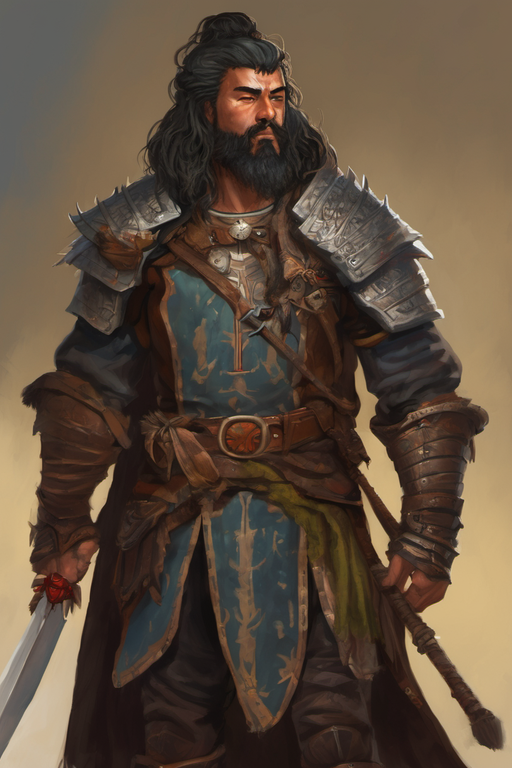
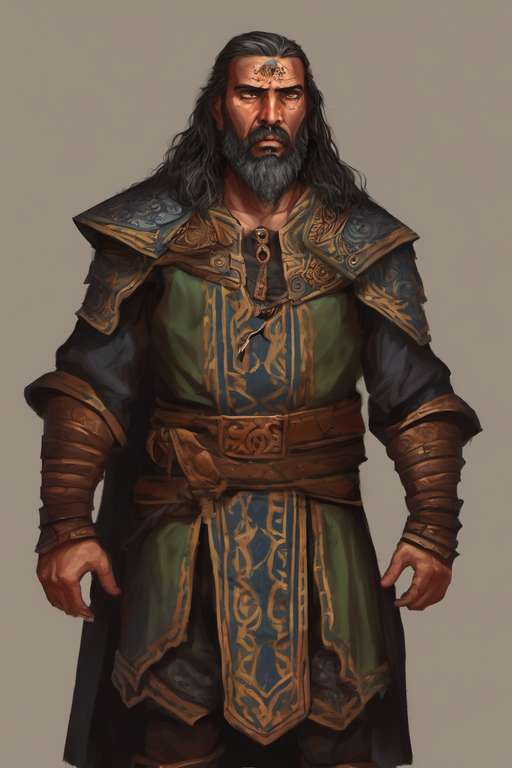
Keep dialog-driven taps alive when the game stops publishing its mask
Review of the interface work found a regression I introduced: send() refused a
tap at once when nativeGetPhoneActions() had no bit set, but that getter folds
"snapshot older than 500 ms" into 0. SDL can stop publishing while a dialog has
focus (the Android 6 case the code's own comment names), so confirming End turn,
Quit to menu or any More-sheet action hit exactly that window: the action the
player picked was refused with "not available" instead of being queued.

- nativeGetPhoneActions now reports phone::stale_mask (-2) when the snapshot is
  too old, instead of pretending the mask is empty.
- send() refuses at once only on a fresh snapshot without the action; a stale one
  waits for a fresh snapshot and window focus, as the retry loop already did.
- The poll keeps the controls as the last fresh snapshot left them instead of
  greying everything out between publishes, and More-sheet rows now follow the
  same availability mask as the bar instead of freezing at open.

This is also what the emulator smoke runs were failing on: tapping More >
Objectives is a dialog-driven send, and the harness then waited for the bar to
come back. Verified locally: Java compile, JVM tests and Android lint (0 errors).

diff --git a/overlay/packaging/android/campaigns/artgen.py b/overlay/packaging/android/campaigns/artgen.py
@@ -42,12 +42,13 @@ SCENE_SIZE = (1024, 512)
 
 # Style clauses shared by every request, worded the way the existing, proven
 # entries in ART_PROMPTS.json are.
-PORTRAIT_STYLE = ('Original hand-painted high-fantasy game portrait. {subject} One single character '
-                  'full body head to boots, three-quarter pose facing slightly right. Clean dark '
-                  'contours, rich muted natural colours, readable silhouette compatible with '
-                  'traditional Battle for Wesnoth illustration. Entire figure and equipment inside '
-                  'frame with margin. Genuinely transparent PNG background, no scenery, no text, '
-                  'no border or logo.')
+PORTRAIT_STYLE = ('Original hand-painted high-fantasy game portrait. {subject} One single character, '
+                  'head to below the knees, standing calmly with hands relaxed at their sides, at most '
+                  'one simple prop and no weapon held up. Generous margin above the head so nothing is '
+                  'cropped, flat simple gradient background. Clean dark contours, rich muted natural '
+                  'colours, readable silhouette compatible with traditional Battle for Wesnoth '
+                  'illustration. Genuinely transparent PNG background, no scenery, no text, no border '
+                  'or logo.')
 SCENE_STYLE = ('Original hand-painted wide illustration for a Battle for Wesnoth story screen. '
                '{subject} No lettering of any kind. Muted natural colours, clean readable shapes, '
                'clear foreground, midground and background layers, consistent with the same '
@@ -143,17 +144,21 @@ def plan():
     existing = {}
     if PROMPTS.is_file():
         existing = json.loads(PROMPTS.read_text(encoding='utf-8'))
+    authored = existing.get('portraits', {})
     plan_data = {'mode': 'built-in image generation',
                  'note': 'Prompts for every image the campaigns reference. '
-                         'Install the results with artgen.py install.',
-                 'portraits': {}, 'chapter_scenes': {}, 'unit_sprites': {},
+                         'portraits and unit_sprites are authored and preserved; '
+                         'characters and chapter_scenes are derived from the stories '
+                         'and regenerated on every run. Install with artgen.py install.',
+                 'portraits': dict(authored), 'characters': {}, 'chapter_scenes': {},
+                 'unit_sprites': existing.get('unit_sprites', {}),
                  'hero_sprites': existing.get('hero_sprites', {})}
-    authored = existing.get('portraits', {})
     for campaign in stories.CAMPAIGNS:
         key = campaign['key']
-        plan_data['portraits'][key] = authored.get(key) or PORTRAIT_STYLE.format(subject=(
-            '%s, the protagonist of %s. %s' % (campaign['hero'], campaign['title'],
-                                               campaign['premise'])))
+        if key not in plan_data['portraits']:
+            plan_data['characters'][key] = PORTRAIT_STYLE.format(subject=(
+                '%s, the protagonist of %s. %s' % (campaign['hero'], campaign['title'],
+                                                   campaign['premise'])))
         for index, chapter in enumerate(campaign['chapters'], 1):
             for scene in range(1, SCENES_PER_CHAPTER + 1):
                 scene_key = '%s_%02d_%d' % (key, index, scene)
@@ -161,8 +166,9 @@ def plan():
                     subject=scene_subject(campaign, index, chapter, scene))
     for name in stories.characters():
         key = stories.portrait_key(name)
-        plan_data['portraits'][key] = authored.get(key) or PORTRAIT_STYLE.format(
-            subject=portrait_subject(name))
+        if key not in plan_data['portraits']:
+            plan_data['characters'][key] = PORTRAIT_STYLE.format(
+                subject=portrait_subject(name))
     plan_data['unit_sprites'] = existing.get('unit_sprites', {})
     PROMPTS.write_text(json.dumps(plan_data, ensure_ascii=False, indent=2) + '\n', encoding='utf-8')
     print('wrote %d portrait prompts, %d chapter scenes, %d unit sprites into %s'
@@ -188,7 +194,8 @@ def required():
 def target(kind, key):
     if kind == 'portrait':
         return IMAGES / 'portraits' / ('%s.png' % key)
-    return IMAGES / 'story' / ('%s.png' % key)
+    # Scenes are wide backgrounds with no alpha: JPEG keeps the repository light.
+    return IMAGES / 'story' / ('%s.jpg' % key)
 
 
 def status():
@@ -219,8 +226,10 @@ CHECKPOINT = 'sd_xl_base_1.0.safetensors'
 PORTRAIT_LORA = 'daggerfall-000001.safetensors'
 PORTRAIT_SIZE_GEN = (832, 1216)
 SCENE_SIZE_GEN = (1344, 768)
-NEGATIVE = ('text, letters, signature, watermark, logo, border, frame, collage, '
-            'two figures, extra limbs, extra fingers, deformed hands, blurry, lowres')
+NEGATIVE = ('text, letters, signature, watermark, logo, border, frame, collage, scenery, '
+            'two figures, extra limbs, extra fingers, fused fingers, deformed hands, hands holding '
+            'an object, raised weapon, wispy hair, fuzzy edges, halo, tight crop, cropped hair, '
+            'busy straps, smudged detail, blurry, lowres')
 
 
 def workflow(prompt, key, size, lora, seed):
@@ -267,7 +276,8 @@ def generate(server, kinds, limit, staging):
     print('generating %d images with %s' % (len(pending), server))
     for number, (kind, key) in enumerate(pending, 1):
         section = 'chapter_scenes' if kind == 'scene' else 'portraits'
-        prompt = prompts.get(section, {}).get(key)
+        prompt = (prompts.get(section, {}).get(key)
+                  or prompts.get('characters', {}).get(key))
         if not prompt:
             print('  [%d/%d] %s: no prompt in ART_PROMPTS.json' % (number, len(pending), key))
             continue
@@ -302,10 +312,12 @@ def generate(server, kinds, limit, staging):
             raw.write_bytes(response.read())
         destination = target(kind, key)
         destination.parent.mkdir(parents=True, exist_ok=True)
-        fit(Image.open(raw),
-            PORTRAIT_SIZE if kind == 'portrait' else SCENE_SIZE).save(destination, 'PNG', optimize=True)
+        frame = fit(Image.open(raw), PORTRAIT_SIZE if kind == 'portrait' else SCENE_SIZE)
         if kind == 'portrait':
+            frame.save(destination, 'PNG', optimize=True)
             cutout(destination)
+        else:
+            frame.convert('RGB').save(destination, 'JPEG', quality=90, optimize=True)
         print('  [%d/%d] %s -> %s' % (number, len(pending), key, destination.name))
     return len(pending)
 
@@ -321,7 +333,11 @@ def install(source_dir):
                 continue
             size = PORTRAIT_SIZE if kind == 'portrait' else SCENE_SIZE
             destination.parent.mkdir(parents=True, exist_ok=True)
-            fit(Image.open(candidate), size).save(destination, 'PNG', optimize=True)
+            frame = fit(Image.open(candidate), size)
+            if kind == 'portrait':
+                frame.save(destination, 'PNG', optimize=True)
+            else:
+                frame.convert('RGB').save(destination, 'JPEG', quality=90, optimize=True)
             installed += 1
             break
     print('installed %d images into %s' % (installed, IMAGES))

diff --git a/overlay/packaging/android/app/src/main/java/org/wesnoth/Wesnoth/PhoneControls.java b/overlay/packaging/android/app/src/main/java/org/wesnoth/Wesnoth/PhoneControls.java
@@ -79,6 +79,8 @@ final class PhoneControls {
 
     private static final int POLL_MS = 250;
     private static final int FOCUS_WAIT_MS = 4000;
+    /** phone::stale_mask in src/phone_actions.hpp: snapshot too old to trust. */
+    private static final int STALE_MASK = -2;
     private static final float CAPTION_SP = 12f;
     private static final float SHEET_CAPTION_SP = 16f;
 
@@ -89,6 +91,8 @@ final class PhoneControls {
     private final ImageButton toggle;
     private final Button more;
     private final Button[] buttons = new Button[ACTIONS.length];
+    /** More-sheet rows follow the same availability mask as the bar. */
+    private final Button[] sheetRows = new Button[SHEET_ACTIONS.length];
     private final SharedPreferences settings;
     private final Handler handler = new Handler(Looper.getMainLooper());
     private boolean expanded;
@@ -264,13 +268,23 @@ final class PhoneControls {
         @Override public void run() {
             if (!running) return;
             int mask = WesnothActivity.nativeGetPhoneActions();
-            if (mask != previousMask) {
+            if (mask == STALE_MASK) {
+                // No fresh news: keep the controls as the last snapshot left them.
+            } else if (mask != previousMask) {
                 previousMask = mask;
                 for (int i = 0; i < buttons.length; ++i) {
                     if (buttons[i] != null) {
                         boolean enabled = mask >= 0 && (mask & (1 << i)) != 0;
                         buttons[i].setEnabled(enabled);
                         buttons[i].setAlpha(enabled ? 1f : 0.4f);
+                    }
+                }
+                for (Button row : sheetRows) {
+                    if (row != null && row.getTag() instanceof Integer) {
+                        int action = (Integer) row.getTag();
+                        boolean enabled = mask >= 0 && (mask & (1 << action)) != 0;
+                        row.setEnabled(enabled);
+                        row.setAlpha(enabled ? 1f : 0.4f);
                     }
                 }
                 updateLayout(mask);
@@ -322,15 +336,14 @@ final class PhoneControls {
         handler.post(new Runnable() {
             @Override public void run() {
                 if (!running) return;
-                // The buttons already follow this mask, so refusing here matches
-                // what the player sees rather than waiting for a lost action.
                 int mask = WesnothActivity.nativeGetPhoneActions();
-                if (mask < 0 || (mask & (1 << action)) == 0) {
+                // A stale snapshot is not evidence that the action is gone: the
+                // player may be confirming a dialog while the game stops
+                // publishing. Only a fresh snapshot without the action refuses.
+                if (mask != STALE_MASK && (mask < 0 || (mask & (1 << action)) == 0)) {
                     unavailable();
                     return;
                 }
-                // Android 6 pauses SDL when a dialog takes focus. Wait for focus
-                // and a fresh game snapshot before giving up.
                 if (activity.hasWindowFocus()
                     && WesnothActivity.nativeQueuePhoneAction(action)) return;
                 if (SystemClock.uptimeMillis() < deadline) {
@@ -370,8 +383,8 @@ final class PhoneControls {
         list.setOrientation(LinearLayout.VERTICAL);
         list.setPadding(dp(10), dp(10), dp(10), dp(10));
         int mask = WesnothActivity.nativeGetPhoneActions();
-        for (int id : SHEET_ACTIONS) {
-            final int action = id;
+        for (int index = 0; index < SHEET_ACTIONS.length; ++index) {
+            final int action = SHEET_ACTIONS[index];
             Button entry = sheetButton(LABELS[action], VIEW_IDS[action], ICONS[action]);
             boolean enabled = mask >= 0 && (mask & (1 << action)) != 0;
             entry.setEnabled(enabled);
@@ -381,6 +394,8 @@ final class PhoneControls {
                 dismissDialog();
                 if (action == QUIT) confirm(action); else send(action);
             });
+            sheetRows[index] = entry;
+            entry.setTag(action);
             list.addView(entry);
         }
         Button help = sheetButton(R.string.phone_help, R.id.phone_action_help, R.drawable.phone_ic_help);

diff --git a/overlay/src/controller_base.cpp b/overlay/src/controller_base.cpp
@@ -47,8 +47,13 @@ extern "C" JNIEXPORT jint JNICALL
 Java_org_wesnoth_Wesnoth_WesnothActivity_nativeGetPhoneActions(JNIEnv*, jclass)
 {
 	const int mask = phone_actions_mask.load();
-	// Modal dialogs/AI may stop controller::process. Never leave stale buttons enabled.
-	return mask >= 0 && SDL_GetTicksNS() - phone_actions_updated.load() > 500000000ULL ? 0 : mask;
+	// A stale snapshot is not an empty one. SDL can stop publishing while a
+	// dialog holds focus (Android 6 and later), and the Java controls must keep
+	// their last state and wait rather than refuse the action the player picked.
+	if(mask >= 0 && SDL_GetTicksNS() - phone_actions_updated.load() > 500000000ULL) {
+		return static_cast<jint>(phone::stale_mask);
+	}
+	return mask;
 }
 
 extern "C" JNIEXPORT jboolean JNICALL

diff --git a/overlay/packaging/android/campaigns/build_campaigns.py b/overlay/packaging/android/campaigns/build_campaigns.py
@@ -198,9 +198,9 @@ def scene_art(key, index, scene):
     artgen.py); until then a chapter still runs with the art it has, instead of
     pointing the engine at a file nobody has drawn.
     """
-    scene_path = PACK / ('images/cbm/story/%s_%02d_%d.png' % (key, index, scene))
-    if scene_path.is_file():
-        return 'cbm/story/%s_%02d_%d.png' % (key, index, scene)
+    for suffix in ('.jpg', '.png'):
+        if (PACK / ('images/cbm/story/%s_%02d_%d%s' % (key, index, scene, suffix))).is_file():
+            return 'cbm/story/%s_%02d_%d%s' % (key, index, scene, suffix)
     return 'cbm/portraits/%s.png~SCALE(1024,512)' % key
 
 

diff --git a/overlay/packaging/android/campaigns/compare_with_mainline.py b/overlay/packaging/android/campaigns/compare_with_mainline.py
@@ -248,7 +248,7 @@ def campaign_stats(campaign):
         })
     art = {'png': 0, 'bytes': 0, 'portraits': 0, 'units': 0, 'story': 0, 'icons': 0, 'maps': 0}
     for path in campaign.rglob('*'):
-        if path.is_file() and path.suffix.lower() in ('.png', '.jpg', '.webp'):
+        if path.is_file() and path.suffix.lower() in ('.png', '.jpg', '.jpeg', '.webp'):
             art['png'] += 1
             art['bytes'] += path.stat().st_size
             rel = '/'.join(p.lower() for p in path.relative_to(campaign).parts)

diff --git a/overlay/src/phone_actions.hpp b/overlay/src/phone_actions.hpp
@@ -12,6 +12,11 @@ inline constexpr std::array<std::string_view, 15> actions = {
 	"preferences", "quit", "moveaction"
 };
 
+// Returned to Java when the published snapshot is too old to trust. SDL can stop
+// publishing while a dialog holds focus, and "no news" is not "nothing is
+// available": the Java side keeps the last state and waits instead of refusing.
+inline constexpr int stale_mask = -2;
+
 constexpr bool valid_action(int action)
 {
 	return action >= 0 && static_cast<unsigned>(action) < actions.size();

diff --git a/overlay/data/campaigns/Brasa_y_Marea/README.es.md b/overlay/data/campaigns/Brasa_y_Marea/README.es.md
@@ -43,8 +43,20 @@ incorporarse a la alianza durante la campaña de Darian.
 
 - 52 mapas y escenarios, con seis clases de objetivo y finales propios.
 - 22 tipos de unidad: 16 de las nuevas razas y seis protagonistas.
-- Retratos y sprites originales generados con la herramienta integrada de imágenes.
-  Las instrucciones de generación se conservan en `ART_PROMPTS.json`.
+- Retratos y sprites originales, generados con IA de imagen y recortados con
+  fondo transparente. Los prompts completos se conservan en `ART_PROMPTS.json`:
+  `portraits` y `unit_sprites` están escritos a mano y se preservan;
+  `characters` y `chapter_scenes` se derivan de estas historias. El flujo está en
+  `artgen.py`: `plan` escribe los prompts, `generate` los dibuja con el servidor
+  local de ComfyUI (SDXL más el LoRA `daggerfall`, y `pixel-art-xl` para
+  sprites), quita el fondo con `rembg` e instala cada imagen en el tamaño que usa
+  el WML, `status` dice lo que falta, e `install` coloca imágenes generadas por
+  otra vía. Las semillas se derivan del nombre del recurso, así que regenerar
+  reproduce las mismas imágenes.
+- Las escenas de capítulo se guardan en JPEG (sin alfa) y los retratos en PNG con
+  alfa. Cuando una escena o un retrato todavía no existe, el generador de
+  escenarios usa el retrato del protagonista como fondo, de modo que ninguna
+  partida apunta a un archivo que nadie haya dibujado.
 - Doce composiciones instrumentales originales, aproximadamente dieciséis minutos,
   creadas con síntesis aditiva. `music/cbm/score.json` conserva motivos y métricas.
 - Los terrenos, objetos de señalización y unidades clásicas proceden de Wesnoth
